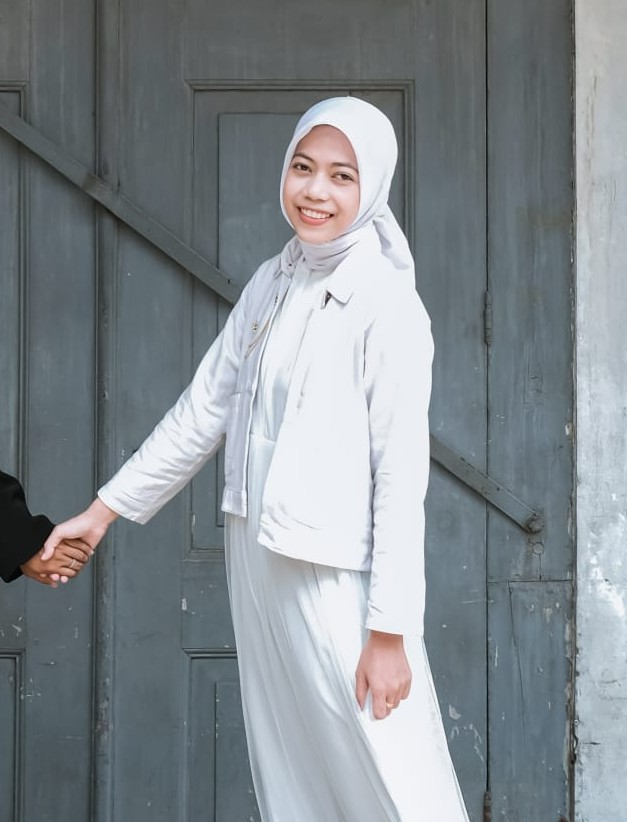
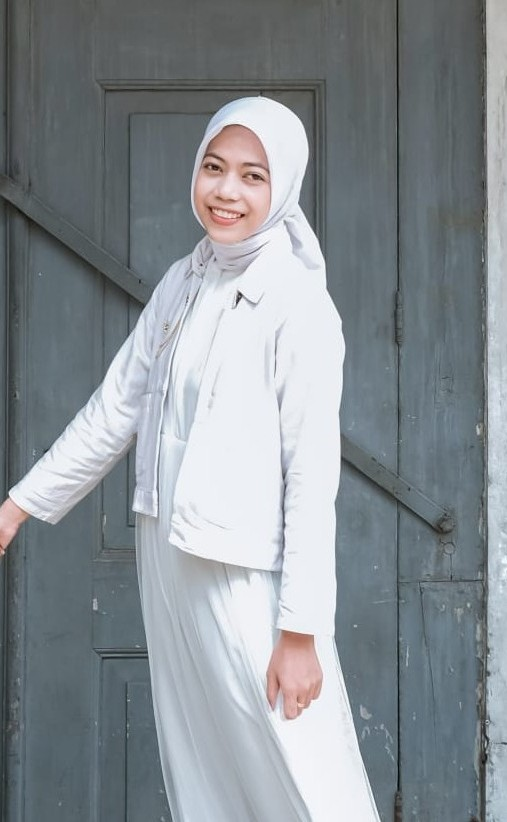
ewqeew

diff --git a/lukman-ayuk/index.html b/lukman-ayuk/index.html
@@ -3253,7 +3253,7 @@
 							<div class="elementor-social-icons-wrapper elementor-grid">
 								<span class="elementor-grid-item">
 									<a class="elementor-icon elementor-social-icon elementor-social-icon-instagram elementor-animation-grow elementor-repeater-item-6154405"
-										href="https://www.instagram.com/aywhyu___?igsh=NDFhMmZ4b2V0czg5" target="_blank">
+										href="https://www.instagram.com/lukman_hakm12?igsh=MWQ1ZHhkOGpwbHZxNQ==" target="_blank">
 										<span class="elementor-screen-only">Instagram</span>
 										<i class="fab fa-instagram"></i> </a>
 								</span>
@@ -3312,7 +3312,7 @@
 							<div class="elementor-social-icons-wrapper elementor-grid">
 								<span class="elementor-grid-item">
 									<a class="elementor-icon elementor-social-icon elementor-social-icon-instagram elementor-animation-grow elementor-repeater-item-6154405"
-										href="https://www.instagram.com/lukman_hakm12?igsh=MWQ1ZHhkOGpwbHZxNQ==" target="_blank">
+										href="https://www.instagram.com/aywhyu___?igsh=NDFhMmZ4b2V0czg5" target="_blank">
 										<span class="elementor-screen-only">Instagram</span>
 										<i class="fab fa-instagram"></i> </a>
 								</span>
@@ -3405,6 +3405,7 @@
 						<div class="elementor-element elementor-element-f1bced2 revealin elementor-widget elementor-widget-text-editor"
 							data-id="f1bced2" data-element_type="widget" data-widget_type="text-editor.default">
 							<div class="elementor-widget-container">
+								di kediaman mempelai wanita </br>
 								Alamat : Betokan Krajan RT 03 / RW 01. Gg Kamboja 1. Demak, Demak </div>
 						</div>
 					</div>
@@ -3431,7 +3432,7 @@
 						<div class="elementor-element elementor-element-721927ec revealin elementor-widget elementor-widget-text-editor"
 							data-id="721927ec" data-element_type="widget" data-widget_type="text-editor.default">
 							<div class="elementor-widget-container">
-								Alamat : Betokan Krajan RT 03 / RW 01. Gg Kamboja 1. Demak, Demak </div>
+								Alamat : Krajan RT 04 RW 03, Ds. Grogol, Karangtengah </div>
 						</div>
 					</div>
 					<div class="elementor-element elementor-element-6046e12c elementor-align-center elementor-tablet-align-center elementor-mobile-align-center revealin elementor-widget elementor-widget-button"
@@ -3439,7 +3440,7 @@
 						<div class="elementor-widget-container">
 							<div class="elementor-button-wrapper">
 								<a class="elementor-button elementor-button-link elementor-size-sm"
-									href="https://maps.app.goo.gl/UNvPdvKNLPMdVMC8A" target="_blank">
+									href="https://maps.app.goo.gl/MBsxdQuPHqvYniPh7?g_st=awb" target="_blank">
 									<span class="elementor-button-content-wrapper">
 										<span class="elementor-button-icon">
 											<i aria-hidden="true" class="fas fa-map-marker-alt"></i> </span>
